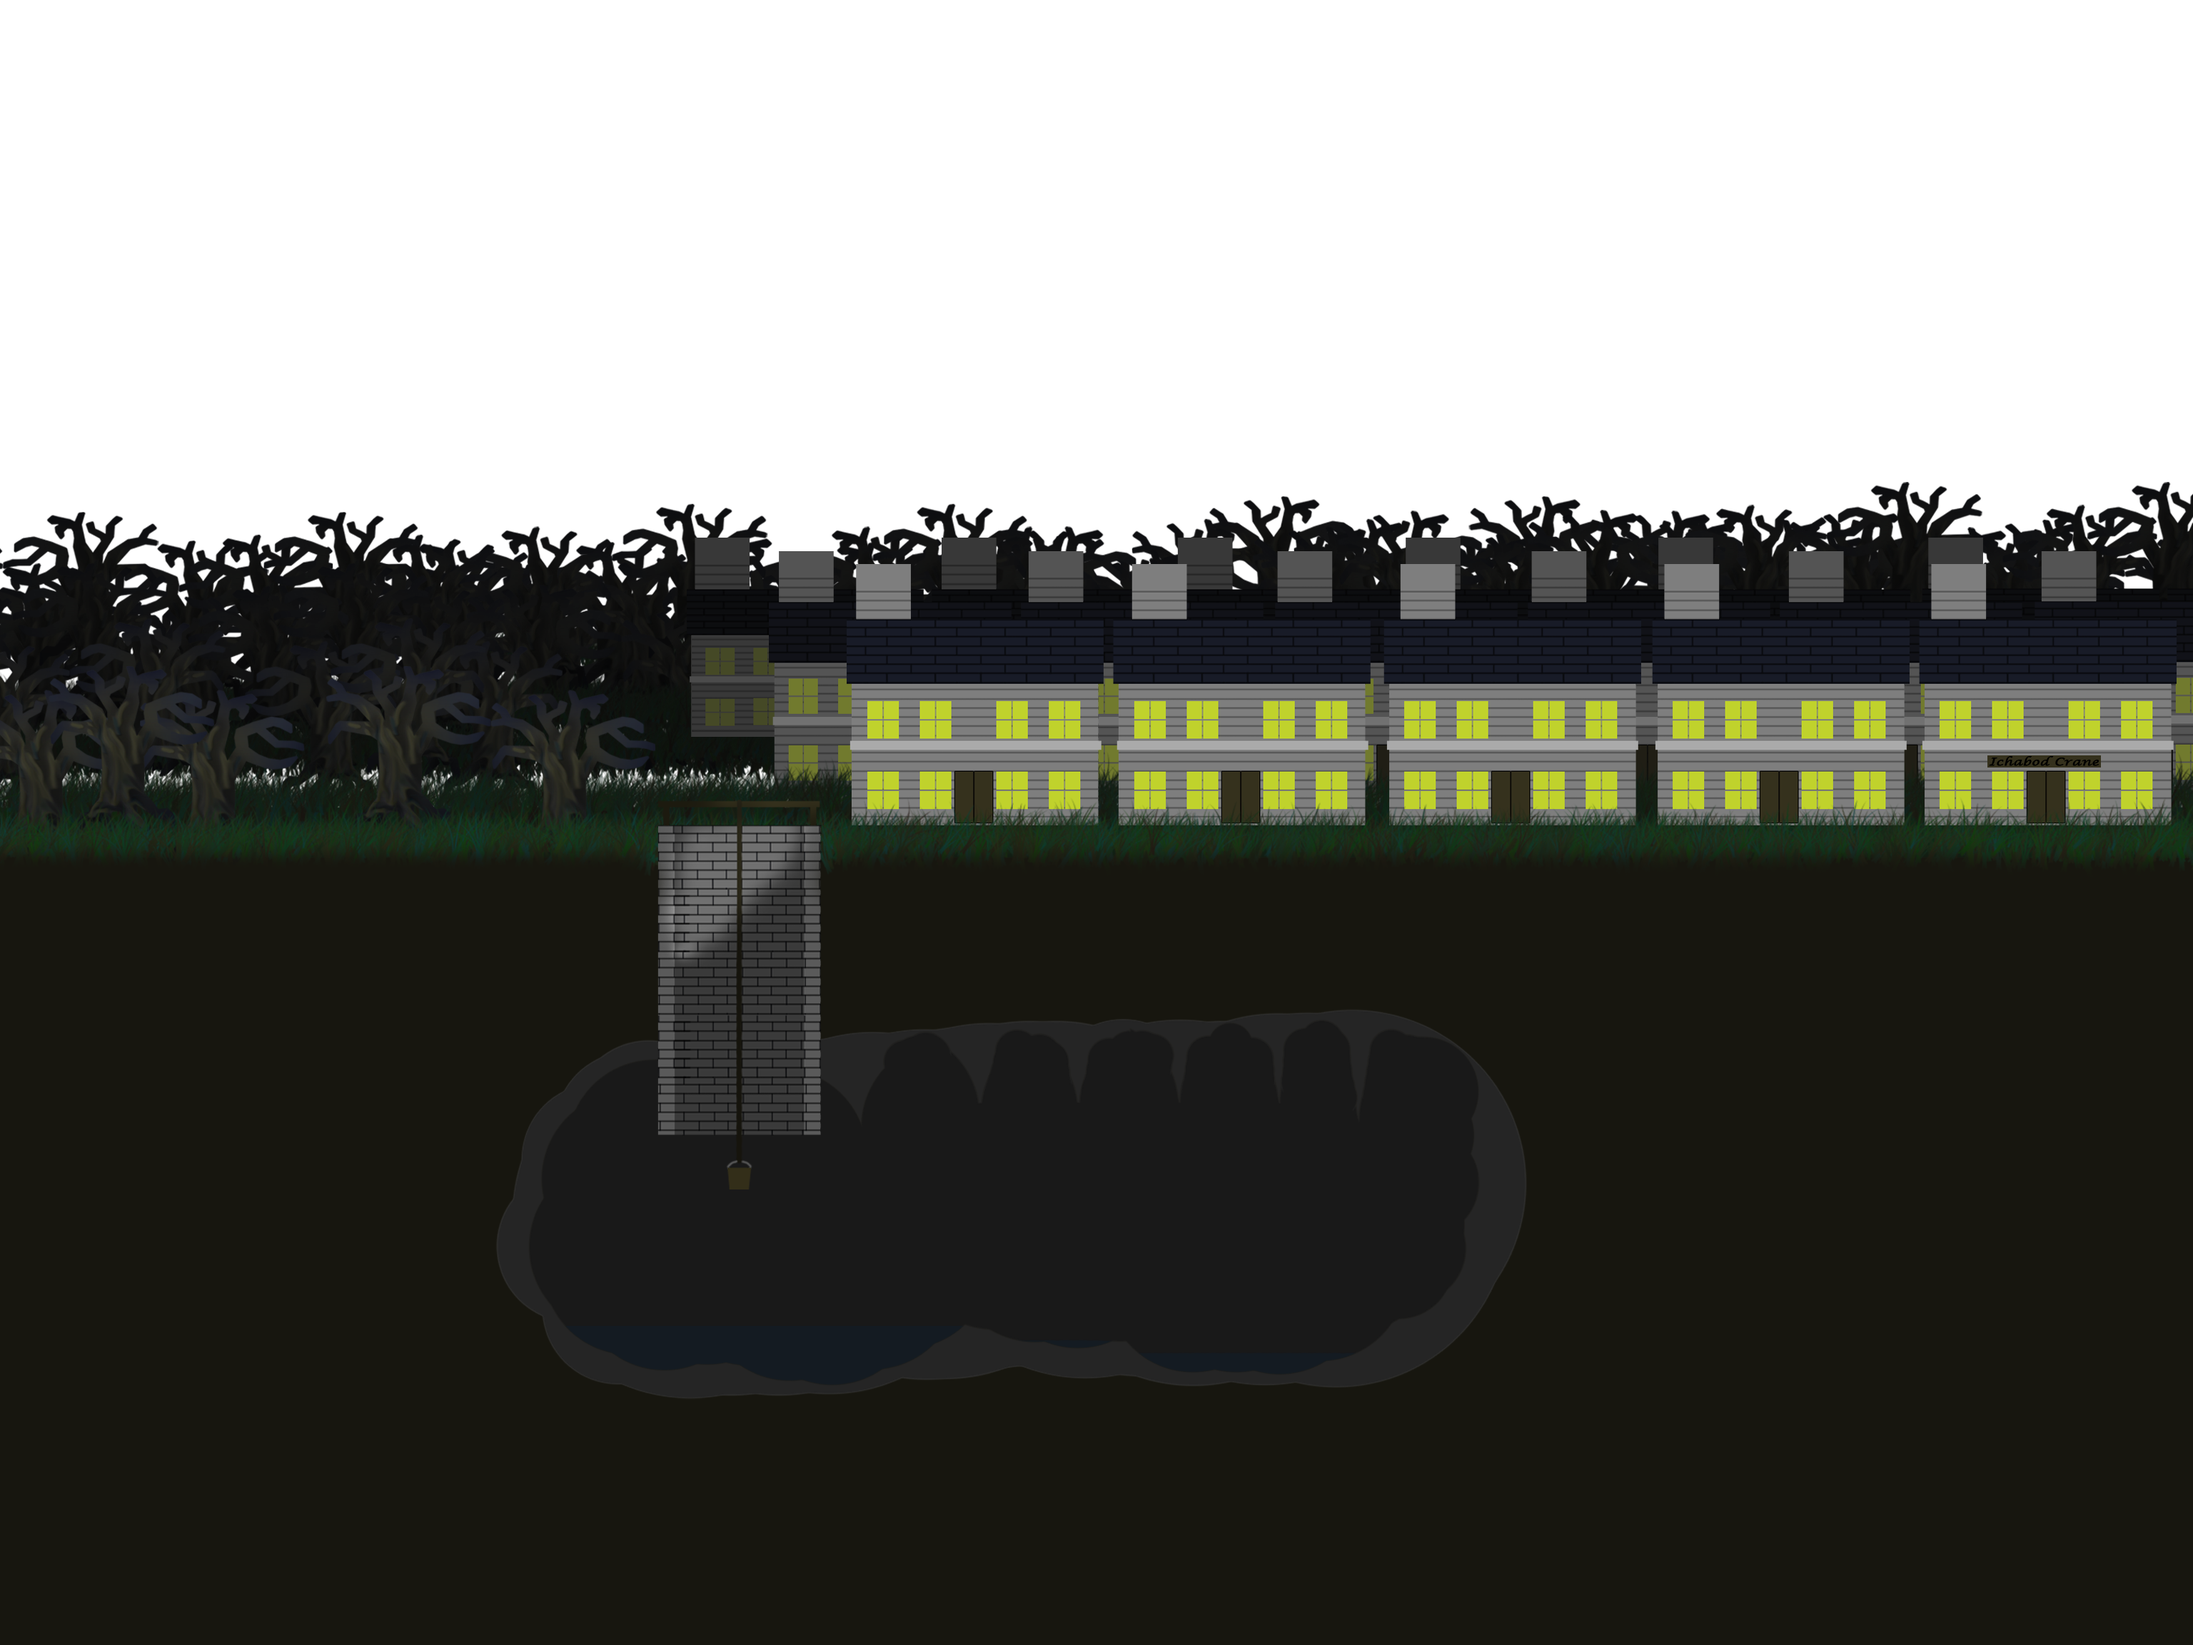
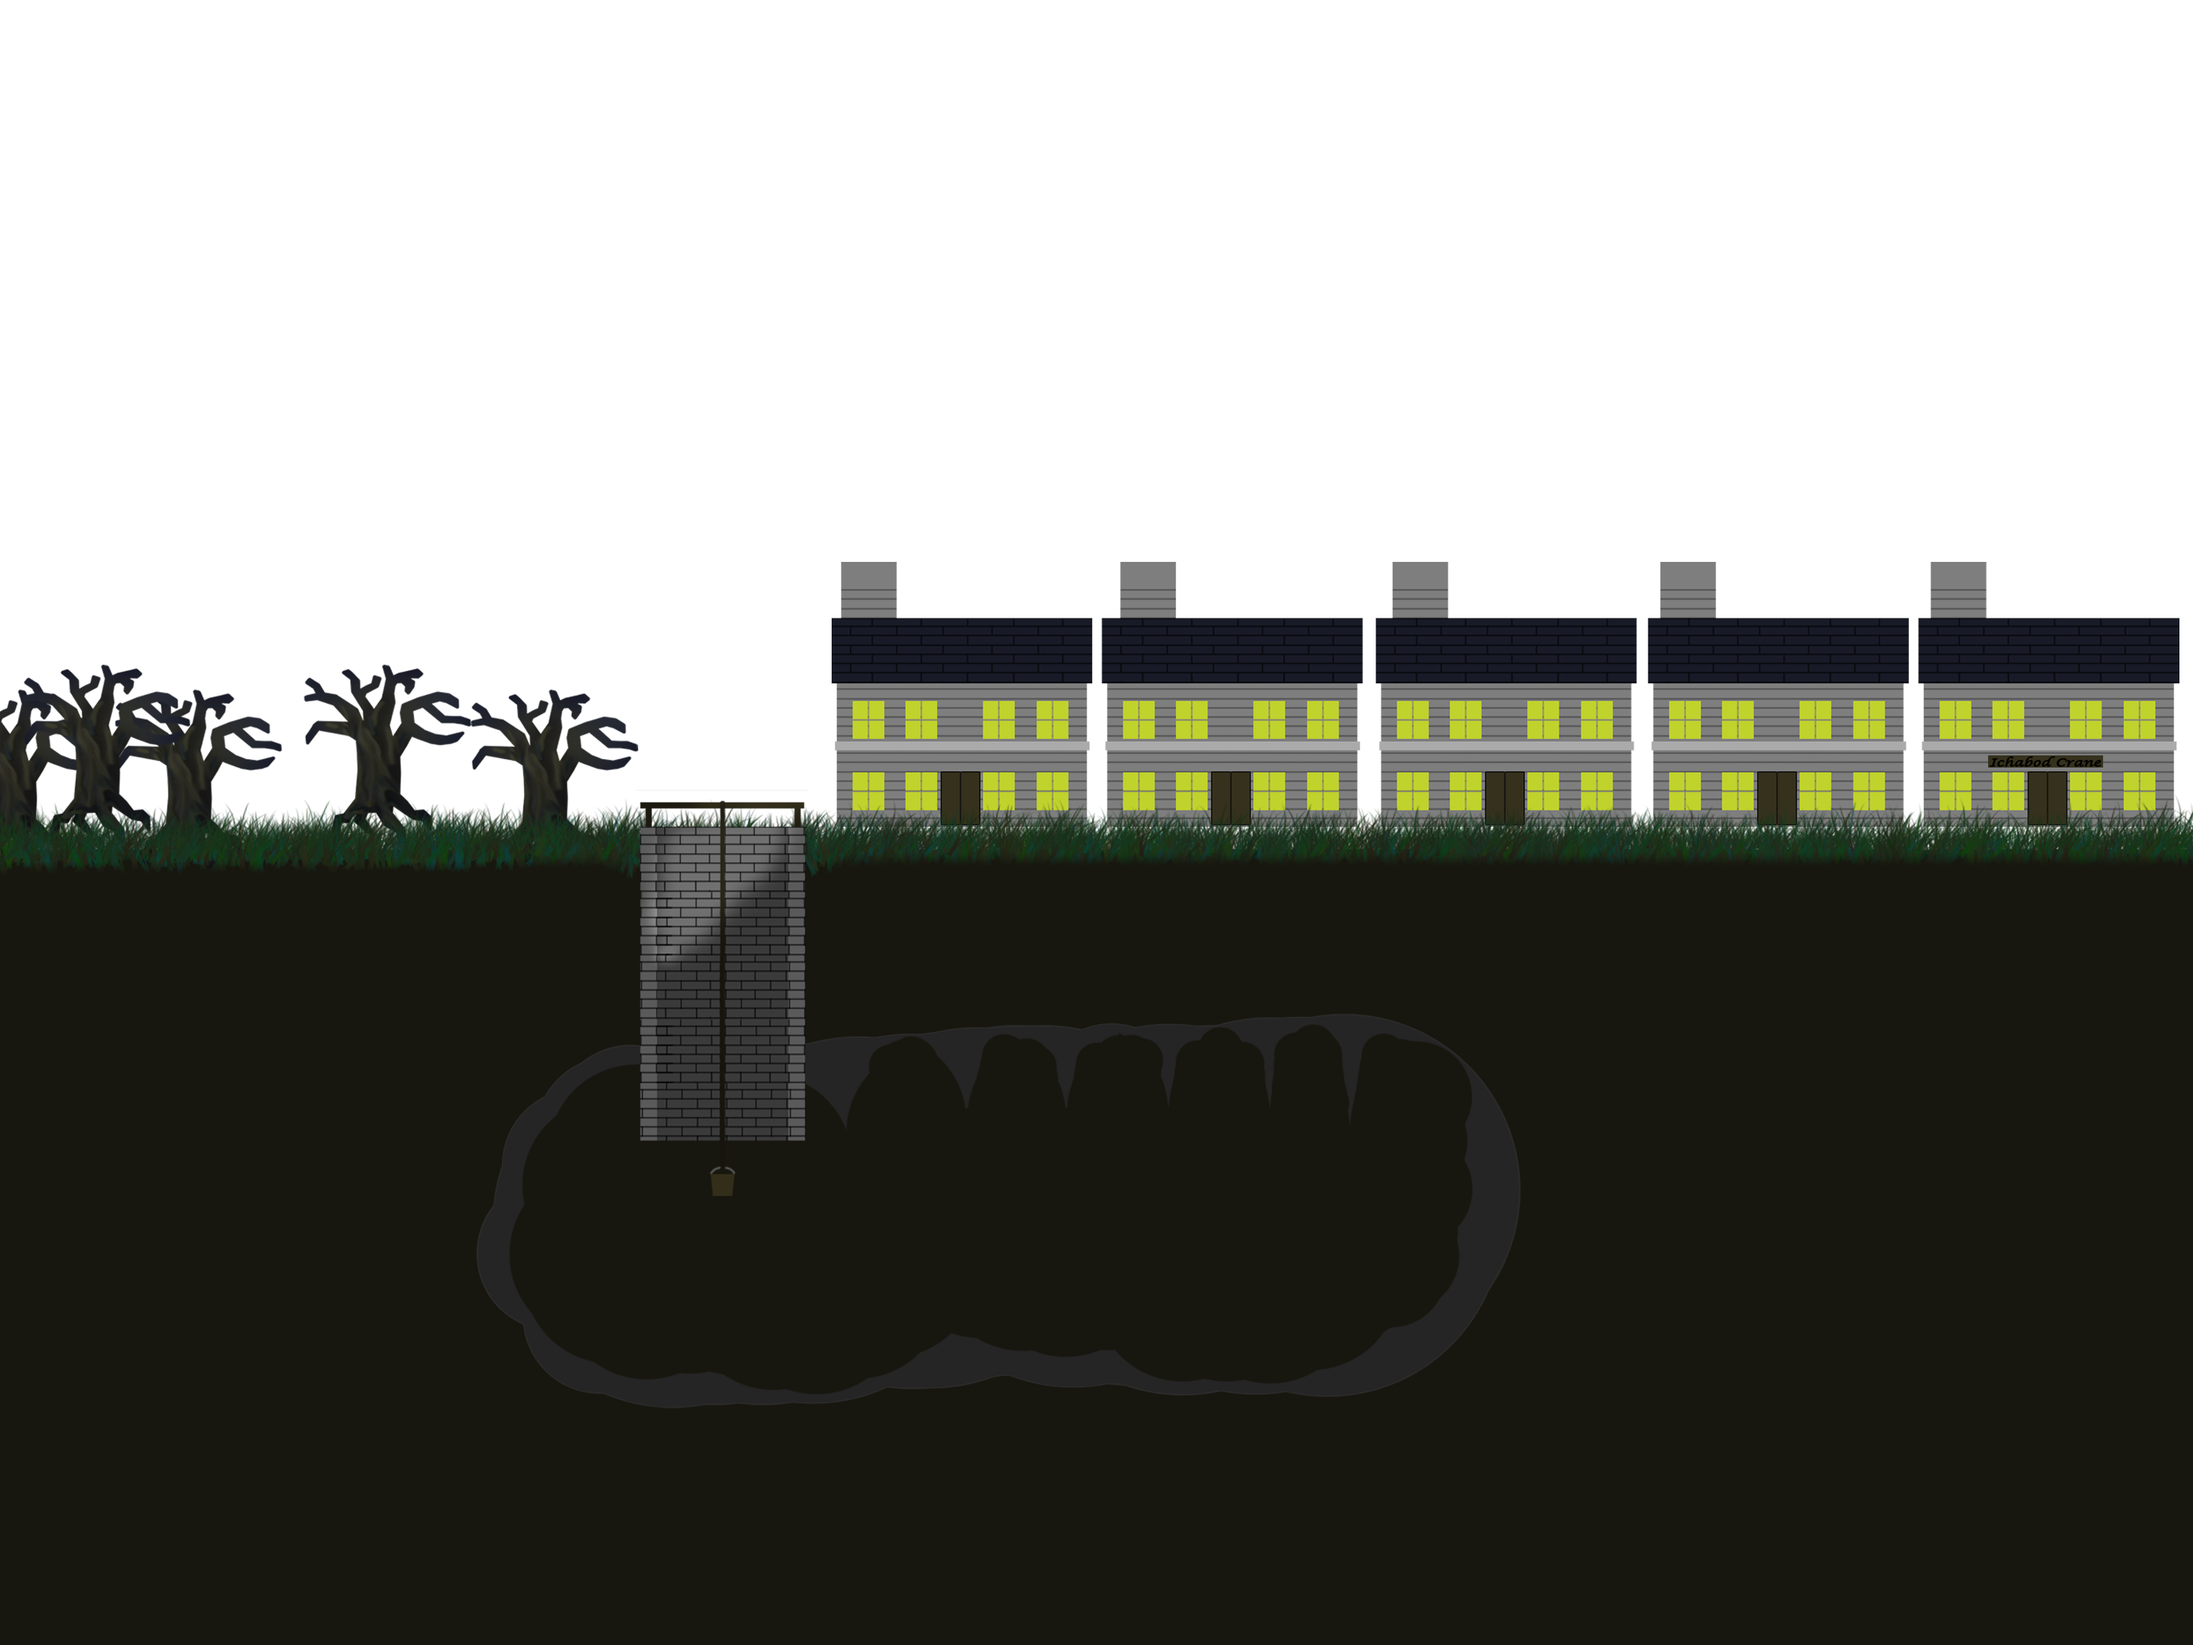
separated the foreground, made player class
started working on scenery header files

Changed region(s): [[0.0, 0.2812, 1.0, 0.7188]]

diff --git a/sources/main.cpp b/sources/main.cpp
@@ -14,6 +14,9 @@
 #include <iostream>
 #include <time.h>
 #include <math.h>
+
+#include "player.h"
+#include "scene.h"
 using namespace std;
 
 //GLOBALS
@@ -49,7 +52,7 @@ int main(int argc, char* argv[]) {
 
 	SDL_Window *window;                    // Declare a pointer
 
-	SDL_Init(SDL_INIT_VIDEO);              // Initialize SDL2
+	SDL_Init(SDL_INIT_EVERYTHING);              // Initialize SDL2
 
 	// Create an application window with the following settings:
 	window = SDL_CreateWindow("An SDL2 window",                  // window title
@@ -78,6 +81,9 @@ int main(int argc, char* argv[]) {
 	//create the renderer
 	renderer = SDL_CreateRenderer(window, -1, SDL_RENDERER_ACCELERATED);
 
+	//CREATE THE PLAYER
+	Player player(renderer, images_dir, 0, 320);
+
 	//BACKGROUND STUFF
 	//bkgd things
 	string BKGDdir = images_dir + "background.png";
@@ -90,6 +96,32 @@ int main(int argc, char* argv[]) {
 	BKGD = IMG_LoadTexture(renderer, BKGDdir.c_str());
 	//END BACKGROUND STUFF
 
+	//MIDGROUND2 STUFF
+	//mdgd things
+	string MDGD2dir = images_dir + "midground2.png";
+	SDL_Rect MDGD2pos;
+	MDGD2pos.x = 0;
+	MDGD2pos.y = -728;
+	MDGD2pos.w = 3072;
+	MDGD2pos.h = 2304;
+	SDL_Texture * MDGD2;
+	MDGD2 = IMG_LoadTexture(renderer, MDGD2dir.c_str());
+	float m2_X = 0, m2_Y = -728;
+	//END MIDGROUND2 STUFF
+
+	//MIDGROUND1 STUFF
+	//mdgd things
+	string MDGD1dir = images_dir + "midground1.png";
+	SDL_Rect MDGD1pos;
+	MDGD1pos.x = 0;
+	MDGD1pos.y = -728;
+	MDGD1pos.w = 3072;
+	MDGD1pos.h = 2304;
+	SDL_Texture * MDGD1;
+	MDGD1 = IMG_LoadTexture(renderer, MDGD1dir.c_str());
+	float m1_X = 0, m1_Y = -728;
+	//END MIDGROUND1 STUFF
+
 	//FOREGROUND STUFF
 	//frgd things
 	string FRGDdir = images_dir + "foreground.png";
@@ -100,29 +132,9 @@ int main(int argc, char* argv[]) {
 	FRGDpos.h = 2304;
 	SDL_Texture * FRGD;
 	FRGD = IMG_LoadTexture(renderer, FRGDdir.c_str());
+	float fr_X = 0, fr_Y = -728;
 	//END FOREGROUND STUFF
 
-
-	//PLAYER STUFF
-	//player setup
-	string playerDIR = images_dir + "player.png";
-	SDL_Point playerCenter;
-	SDL_Rect playerPos;
-	playerPos.x = 0;
-	playerPos.y = 320;
-	playerPos.w = 128;
-	playerPos.h = 128;
-	playerCenter.x = 64;
-	playerCenter.y = 64;
-	SDL_Texture * Player;
-	Player = IMG_LoadTexture(renderer, playerDIR.c_str());
-	bool flipped = false;
-	double angle = 0.0;
-	float bob = 0;
-	//update floats for precision
-	float pos_X = 0.0f;
-	float pos_Y = 320.0f;
-	//END PLAYER STUFF
 
 
 	//bool values to control game states
@@ -156,15 +168,17 @@ int main(int argc, char* argv[]) {
 		if (currentKeyStates[SDL_SCANCODE_W]) {
 
 			//move the foreground
-			if (playerPos.y > 384-64 && FRGDpos.y < 1536)
-				FRGDpos.y += (int)1500 * deltaTime + .5;
-			else if (playerPos.y > 0)
-				pos_Y -= 300 * deltaTime;
+			if (FRGDpos.y < 0 && player.Pos.y < 384 - 64) {
+				fr_Y += (300 * deltaTime);
+				m1_Y += (290 * deltaTime);
+				m2_Y += (280 * deltaTime);
+			} else if (player.Pos.y > 0)
+				player.pos_Y -= 300 * deltaTime;
 
-			if (flipped) {
-				angle += 150 * deltaTime;
+			if (player.flipped) {
+				player.angle += 150 * deltaTime;
 			} else {
-				angle -= 150 * deltaTime;
+				player.angle -= 150 * deltaTime;
 			}
 		}
 
@@ -172,56 +186,64 @@ int main(int argc, char* argv[]) {
 		if (currentKeyStates[SDL_SCANCODE_S]) {
 
 			//move the foreground
-			if (playerPos.y < 384 - 64 && FRGDpos.y > -1536)
-				FRGDpos.y -= (int)300 * deltaTime + .5;
-			else if (playerPos.y < 768-128)
-				pos_Y += 300 * deltaTime;
+			if (FRGDpos.y > -1536 && player.Pos.y > 384 - 64) {
+				fr_Y -= (300 * deltaTime);
+				m1_Y -= (290 * deltaTime);
+				m2_Y -= (280 * deltaTime);
+			} else if (player.Pos.y < 768 - 128)
+				player.pos_Y += 300 * deltaTime;
 
-			if (flipped) {
-				angle -= 150 * deltaTime;
+			if (player.flipped) {
+				player.angle -= 150 * deltaTime;
 			} else {
-				angle += 150 * deltaTime;
+				player.angle += 150 * deltaTime;
 			}
 		}
 
 		//move left
 		if (currentKeyStates[SDL_SCANCODE_A]) {
 			//move the foreground
-			if(playerPos.x < 512 - 64 && FRGDpos.x < 1)
-				FRGDpos.x += (int)150 * deltaTime + .5;
-			else if(playerPos.x > 0)
-				pos_X -= 300 * deltaTime;
+			if (player.Pos.x < 512 - 64 && FRGDpos.x < 1) {
+				fr_X += (300 * deltaTime);
+				m1_X += (280 * deltaTime);
+				m2_X += (260 * deltaTime);
+			} else if (player.Pos.x > 0)
+				player.pos_X -= 300 * deltaTime;
 
-			if (flipped == false) {
-				flipped = true;
-				angle *= -1;
+			if (player.flipped == false) {
+				player.flipped = true;
+				player.angle *= -1;
 			}
 		}
 
 		//move right
 		if (currentKeyStates[SDL_SCANCODE_D]) {
 			//move the foreground
-			if(playerPos.x > 512-64 && FRGDpos.x > -2048)
-				FRGDpos.x -= (int)300 * deltaTime +.5;
-			else if(playerPos.x < 1024 - 128)
-				pos_X += 300 * deltaTime;
+			if (player.Pos.x > 512 - 64 && FRGDpos.x > -2048) {
+				fr_X -= (300 * deltaTime);
+				m1_X -= (280 * deltaTime);
+				m2_X -= (260 * deltaTime);
+			} else if (player.Pos.x < 1024 - 128)
+				player.pos_X += 300 * deltaTime;
 
-			if (flipped == true) {
-				flipped = false;
-				angle *= -1;
+			if (player.flipped == true) {
+				player.flipped = false;
+				player.angle *= -1;
 			}
 		}
 
 		//Update
-		//Update player position code to account for precision loss
-		playerPos.x = (int) (pos_X + 0.5f);
-		playerPos.y = (int) (pos_Y + 0.5f);
-		//for bobbing effect
-		bob+=3 * deltaTime;
-		if(bob >360)
-			bob=0;
-		playerPos.y += (int) 5*sin(bob);
-		angle *= .995;
+		player.update(deltaTime);
+
+		//foreground and midground
+		FRGDpos.x = (int) (fr_X + 0.5f);
+		FRGDpos.y = (int) (fr_Y + 0.5f);
+
+		MDGD1pos.x = (int) (m1_X + 0.5f);
+		MDGD1pos.y = (int) (m1_Y + 0.5f);
+
+		MDGD2pos.x = (int) (m2_X + 0.5f);
+		MDGD2pos.y = (int) (m2_Y + 0.5f);
 
 		//Draw
 		//clear the renderer
@@ -230,16 +252,17 @@ int main(int argc, char* argv[]) {
 		//Draw the BKGD
 		SDL_RenderCopy(renderer, BKGD, NULL, &BKGDpos);
 
+		//Draw the MDGD2
+		SDL_RenderCopy(renderer, MDGD2, NULL, &MDGD2pos);
+
+		//Draw the MDGD1
+		SDL_RenderCopy(renderer, MDGD1, NULL, &MDGD1pos);
+
 		//Draw the FRGD
 		SDL_RenderCopy(renderer, FRGD, NULL, &FRGDpos);
 
 		//Draw the Player
-		if (flipped)
-			SDL_RenderCopyEx(renderer, Player, NULL, &playerPos, angle,
-					&playerCenter, SDL_FLIP_HORIZONTAL);
-		else
-			SDL_RenderCopyEx(renderer, Player, NULL, &playerPos, angle,
-					&playerCenter, SDL_FLIP_NONE);
+		player.draw(renderer);
 
 		//present renderer
 		SDL_RenderPresent(renderer);

diff --git a/sources/player.h b/sources/player.h
@@ -1,0 +1,86 @@
+/*
+ * player.h
+ *
+ *  Created on: Jul 27, 2016
+ *      Author: Phillipbadgett
+ */
+
+#ifndef HHRESOURCE_SOURCES_PLAYER_H_
+#define HHRESOURCE_SOURCES_PLAYER_H_
+
+#if defined(_WIN32) || (_WIN64)
+#include "SDL.h"
+#include "SDl_image.h"
+#include <direct.h>
+#define getcwd _getcwd
+#endif
+
+#if defined(__APPLE__)
+#include "SDL2/SDL.h"
+#include "SDL2_image/SDL_image.h"
+#endif
+
+#include <stdio.h>
+
+using namespace std;
+
+class Player {
+public:
+
+	string DIR; // = images_dir + "player.png";
+	SDL_Point Center;
+	SDL_Rect Pos;
+	SDL_Texture * PlayerIMAGE;
+	bool flipped; // = false;
+	double angle; // = 0.0;
+	float bob; // = 0;
+	//update floats for precision
+	float pos_X;	// = 0.0f;
+	float pos_Y;	// = 320.0f;
+	Player(SDL_Renderer * renderer, string dir, int x, int y) {
+		//PLAYER STUFF
+		//player setup
+		DIR = dir + "player.png";
+		Pos.x = x; // 0
+		Pos.y = y; // 320
+		Pos.w = 128;
+		Pos.h = 128;
+		Center.x = 64;
+		Center.y = 64;
+		PlayerIMAGE = IMG_LoadTexture(renderer, DIR.c_str());
+
+		flipped = false;
+		angle = 0;
+		bob = 0;
+		pos_X = x; // 0
+		pos_Y = y; //320
+
+		//END PLAYER STUFF
+	}
+
+	void update(float deltaTime) {
+		//Update player position code to account for precision loss
+		Pos.x = (int) (pos_X + 0.5f);
+		Pos.y = (int) (pos_Y + 0.5f);
+		//for bobbing effect
+		bob += 3 * deltaTime;
+		if (bob > 360)
+			bob = 0;
+		Pos.y += (int) 5 * sin(bob);
+		angle *= .993;
+
+	}
+
+	void draw(SDL_Renderer * renderer) {
+		if (flipped)
+			SDL_RenderCopyEx(renderer, PlayerIMAGE, NULL, &Pos, angle,
+					&Center, SDL_FLIP_HORIZONTAL);
+		else
+			SDL_RenderCopyEx(renderer, PlayerIMAGE, NULL, &Pos, angle,
+					&Center, SDL_FLIP_NONE);
+
+	}
+
+};
+
+#endif /* HHRESOURCE_SOURCES_PLAYER_H_ */

diff --git a/sources/scene.h b/sources/scene.h
@@ -1,0 +1,59 @@
+/*
+ * scene.h
+ *
+ *  Created on: Jul 27, 2016
+ *      Author: Phillipbadgett
+ */
+
+#ifndef HHRESOURCE_SOURCES_SCENE_H_
+#define HHRESOURCE_SOURCES_SCENE_H_
+
+#if defined(_WIN32) || (_WIN64)
+#include "SDL.h"
+#include "SDl_image.h"
+#include <direct.h>
+#define getcwd _getcwd
+#endif
+
+#if defined(__APPLE__)
+#include "SDL2/SDL.h"
+#include "SDL2_image/SDL_image.h"
+#endif
+
+#include <stdio.h>
+
+using namespace std;
+
+class Scenery {
+public:
+	//MIDGROUND2 STUFF
+	//mdgd things
+	string DIR;		// = images_dir + "midground2.png";
+	SDL_Rect Pos;
+
+	SDL_Texture * IMAGE;
+
+	float m2_X = 0, m2_Y = -728;
+	//END MIDGROUND2 STUFF
+
+	Scenery(SDL_Renderer * renderer, string dir, int x, int y) {
+
+		DIR = dir + "midground2.png"; // last thing you did was this
+		Pos.x = x;
+		Pos.y = y; // -728
+		Pos.w = 3072;
+		Pos.h = 2304;
+		IMAGE = IMG_LoadTexture(renderer, DIR.c_str());
+
+	}
+
+	void update() {
+
+	}
+
+	void draw() {
+
+	}
+};
+
+#endif /* HHRESOURCE_SOURCES_SCENE_H_ */
